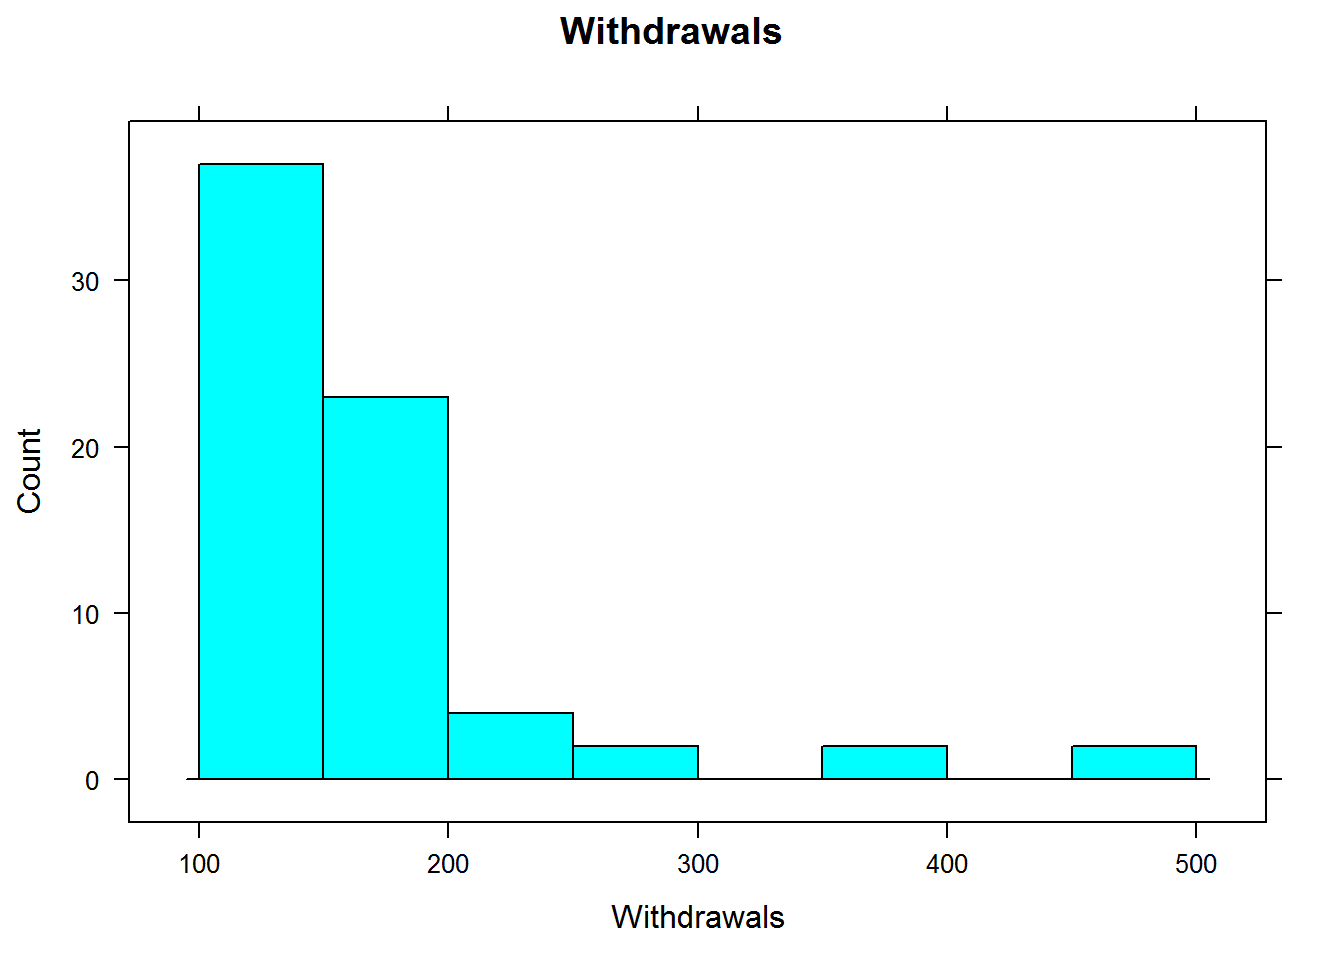
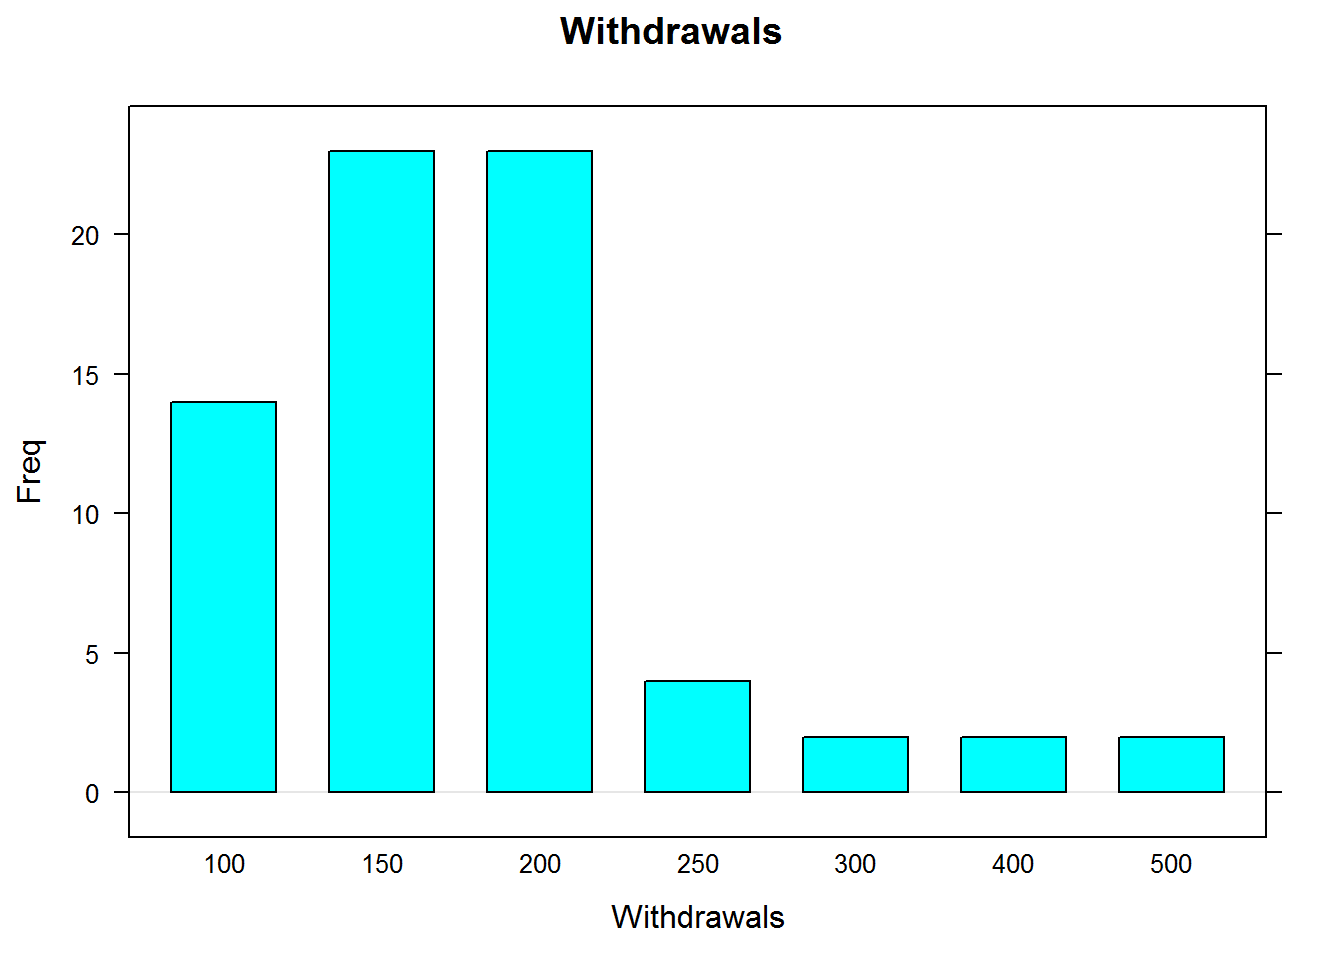
ex. 5.6

diff --git a/chapter3.html b/chapter3.html
@@ -69,6 +69,7 @@ img {
 
 <pre class="r"><code>knitr::opts_chunk$set(cache=TRUE, warning=FALSE, message=FALSE, fig.width=12)</code></pre>
 <pre class="r"><code>library(lattice)
+library(knitr)
 library(xtable)</code></pre>
 <div id="exercise-1---3316" class="section level3">
 <h3>Exercise 1 - 3/3/’16</h3>
@@ -125,12 +126,61 @@ histogram(~n, data = e4,
 <h3>Exercise 5 - 6/3/’16</h3>
 <p>An ATM machine asks to choose an amount in 50$ increments from 100 from $500. Results from a recent sample of customer withdrawals are shown in the figures. Discuss shape, center and spread of the data.</p>
 <pre class="r"><code>e5 &lt;- data.frame(withdraw = rep(c(100, 150, 200, 250, 300, 350, 400, 450, 500), c(14, 23, 23, 4, 2, 0, 2, 0, 2)))
-histogram(~withdraw, data = e5,
+barchart(e5,
           main = &quot;Withdrawals&quot;,
           type = &quot;count&quot;,
+          horizontal = FALSE,
           xlab = &quot;Withdrawals&quot;,
           breaks = seq(from = 100, to = 500, by = 50))</code></pre>
[2 lines of base64/hex data omitted]
+</div>
+<div id="exercise-6---8316" class="section level3">
+<h3>Exercise 6 - 8/3/’16</h3>
+<p>Histogram of rods produced by a company. a Rod should be 100 inches long. Discuss the company accuracy by interpreting the shape, center and spread of the data.</p>
+<pre class="r"><code>e6 &lt;- data.frame(lngth = rep(seq(from = 99.2, to = 100.6, by = 0.1), c(1, 0, 2, 1, 2, 2, 8, 7, 10, 10, 6, 7, 2, 1, 4)))
+
+histogram(~lngth, data = e6,
+          breaks = seq(from = 99.2, to = 100.6, by = 0.1),
+          type = &quot;count&quot;,
+          main = &quot;Rods length&quot;,
+          xlab = &quot;Rods&quot;)</code></pre>
[1 lines of base64/hex data omitted]
+<pre class="r"><code>kable(summary(e6), format = &quot;markdown&quot;, align = &quot;c&quot;)</code></pre>
+<table>
+<thead>
+<tr class="header">
+<th align="left"></th>
+<th align="center">lngth</th>
+</tr>
+</thead>
+<tbody>
+<tr class="odd">
+<td align="left"></td>
+<td align="center">Min. : 99.20</td>
+</tr>
+<tr class="even">
+<td align="left"></td>
+<td align="center">1st Qu.: 99.85</td>
+</tr>
+<tr class="odd">
+<td align="left"></td>
+<td align="center">Median :100.00</td>
+</tr>
+<tr class="even">
+<td align="left"></td>
+<td align="center">Mean :100.03</td>
+</tr>
+<tr class="odd">
+<td align="left"></td>
+<td align="center">3rd Qu.:100.20</td>
+</tr>
+<tr class="even">
+<td align="left"></td>
+<td align="center">Max. :100.60</td>
+</tr>
+</tbody>
+</table>
+<p>There is a</p>
 </div>
 
 
